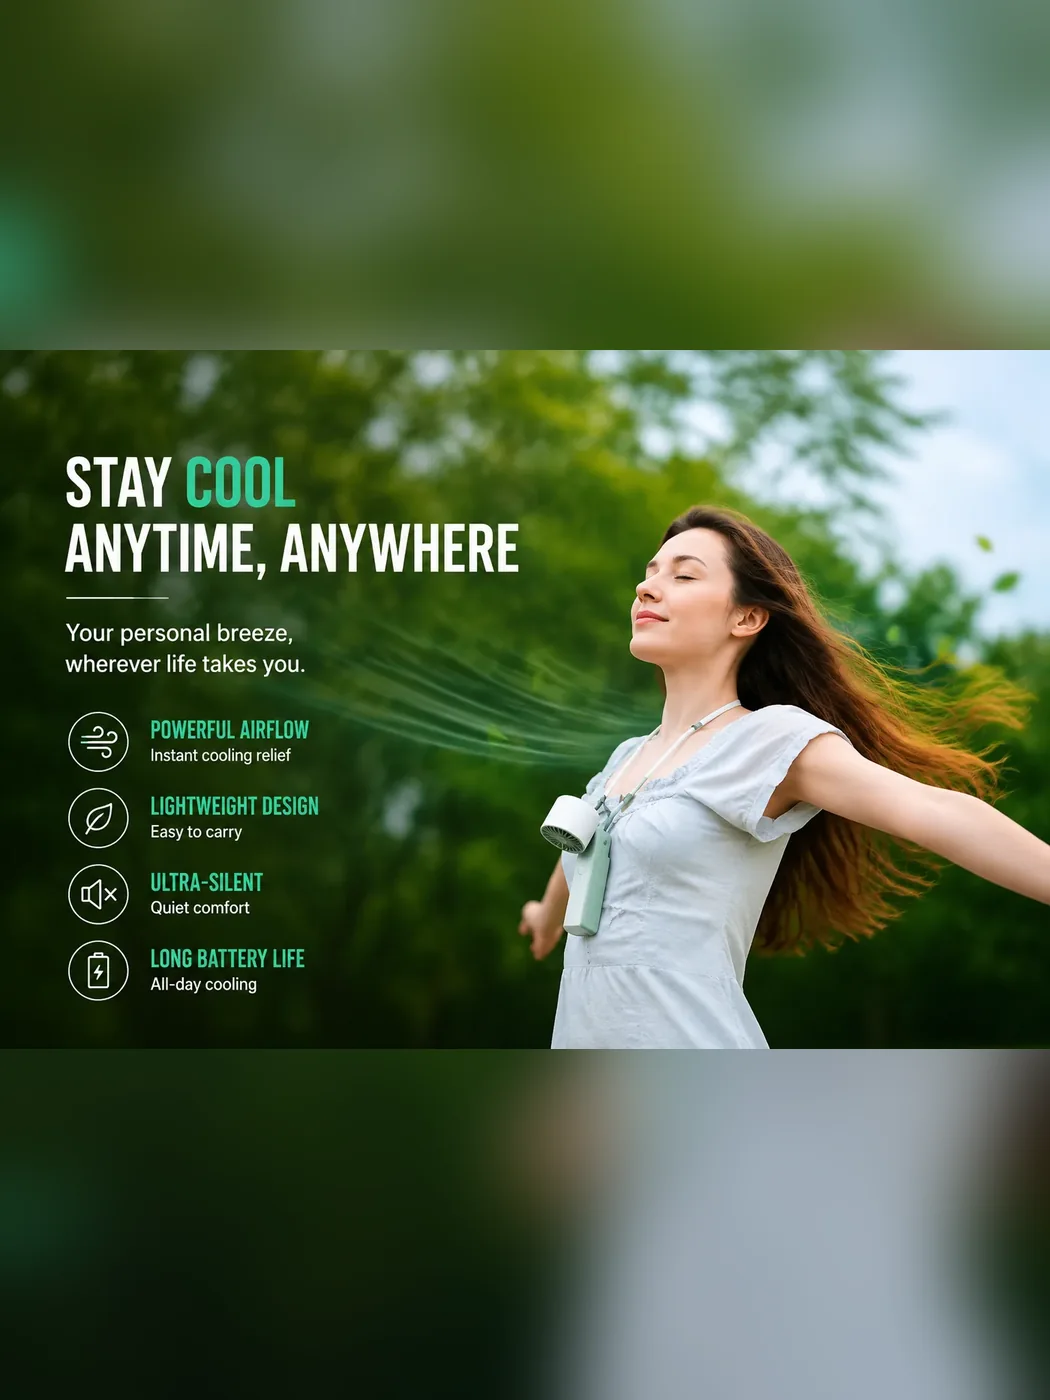
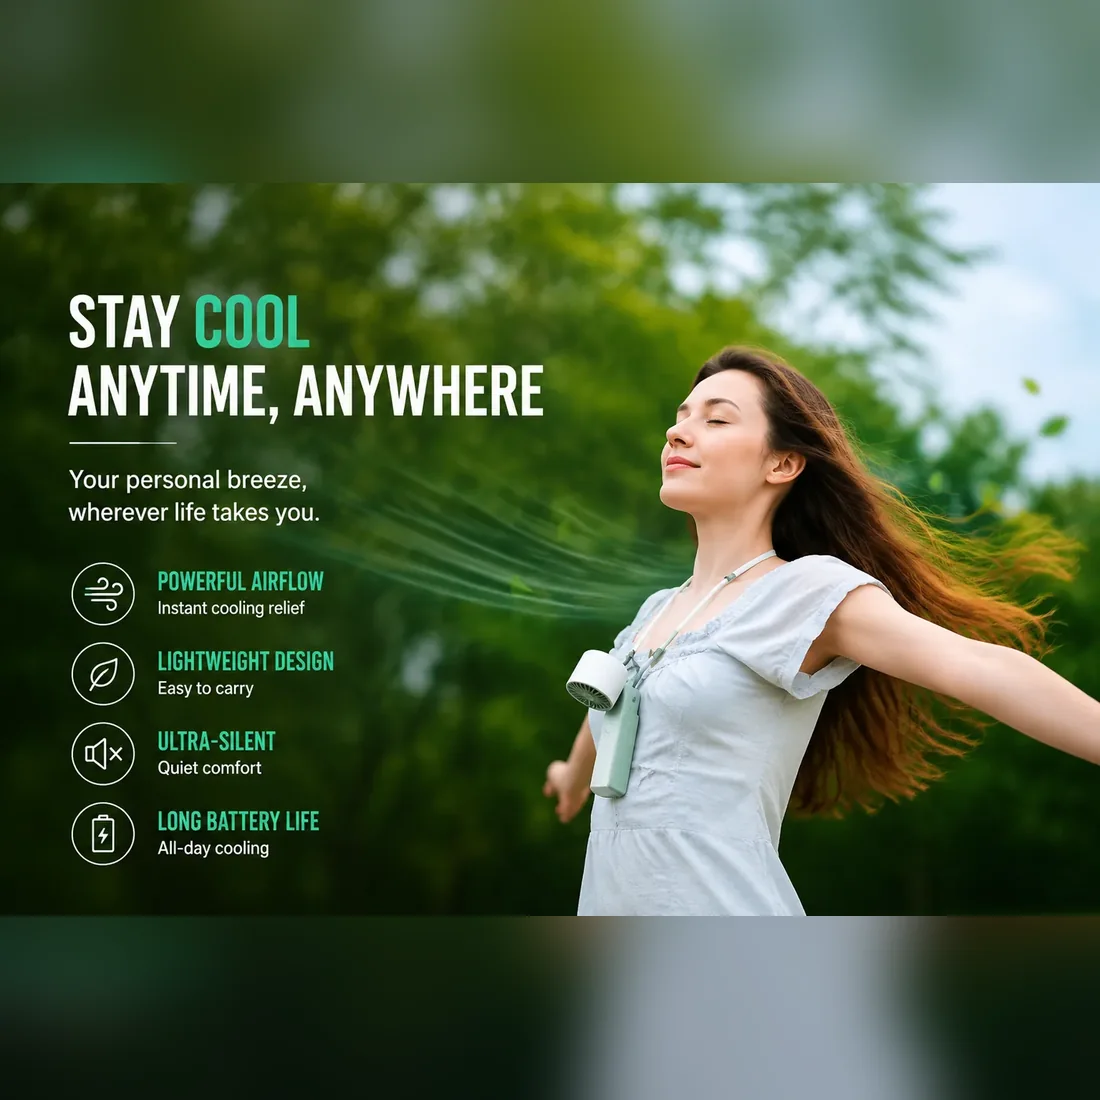
Hero carousel: balanced square 1:1 frame for consistent fit across mixed-shape slides

diff --git a/index.html b/index.html
@@ -62,7 +62,7 @@
 
   /* HERO CAROUSEL */
   .hero-carousel{margin-top:40px;position:relative;animation:fadeUp 0.8s 0.7s ease both;}
-  .hero-carousel-inner{position:relative;width:90%;max-width:600px;margin:0 auto;border-radius:16px;overflow:hidden;border:1px solid rgba(0,212,255,0.2);box-shadow:0 20px 60px rgba(0,0,0,0.5);aspect-ratio:3/4;background:#0a1628;}
+  .hero-carousel-inner{position:relative;width:92%;max-width:720px;margin:0 auto;border-radius:16px;overflow:hidden;border:1px solid rgba(0,212,255,0.2);box-shadow:0 20px 60px rgba(0,0,0,0.5);aspect-ratio:1/1;background:#0a1628;}
   .hero-slide{position:absolute;inset:0;opacity:0;transition:opacity 0.7s ease-in-out;pointer-events:none;}
   .hero-slide.active{opacity:1;pointer-events:auto;}
   .hero-slide img{width:100%;height:100%;object-fit:cover;object-position:center;display:block;}
